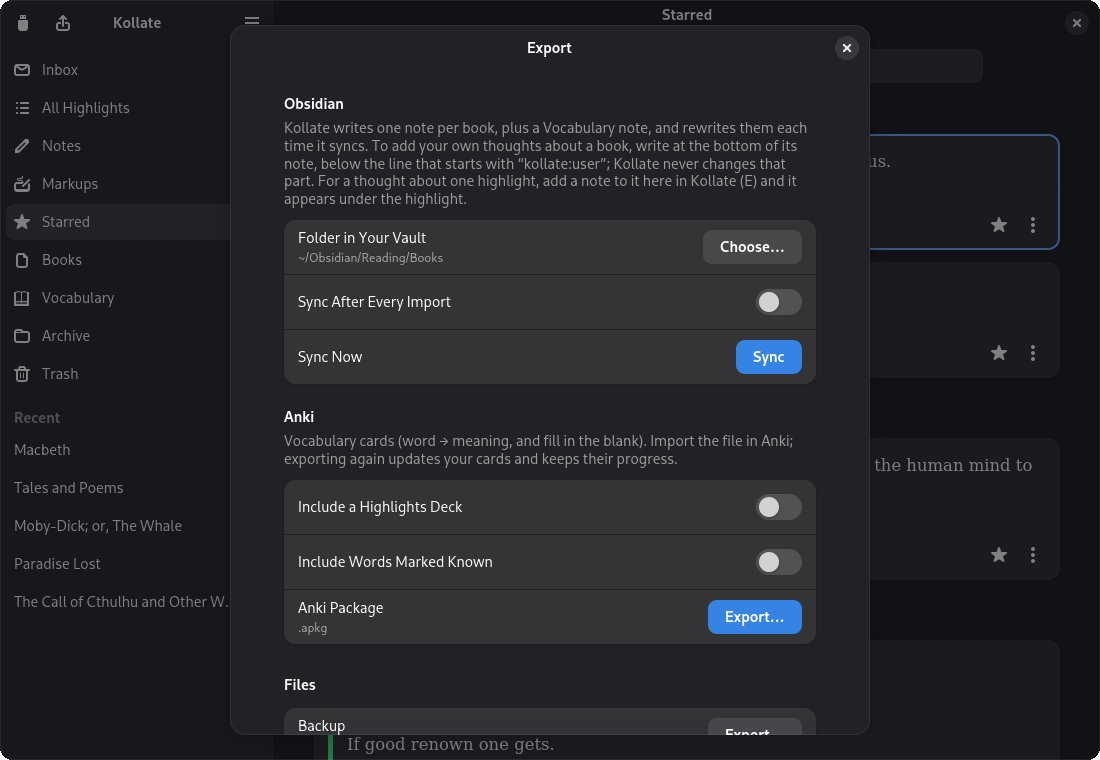
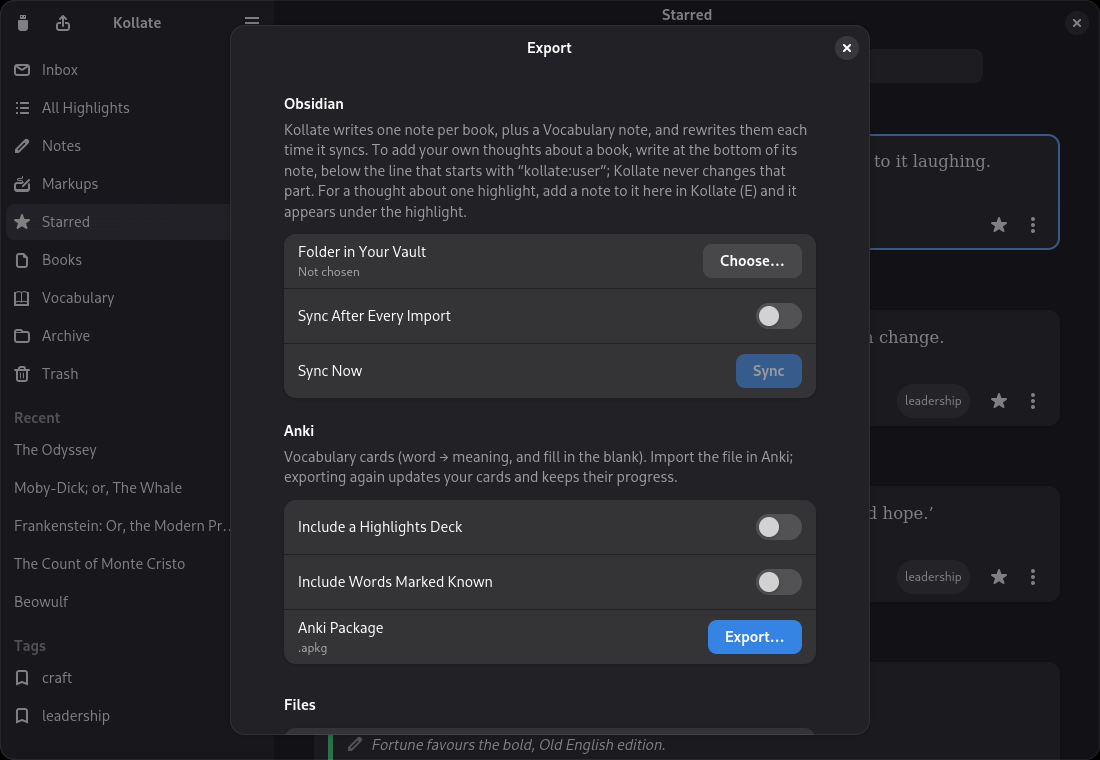
Redo all screenshots with Standard Ebooks books
Every screenshot, the hero, the social preview and the LinkedIn images
now show only Standard Ebooks editions (public domain), imported from a
demo Kobo by the real importer; only the highlights, notes and ink are
staged. The handwriting readings are the 2B model's real output. Credit
Standard Ebooks in the README and the post.

diff --git a/README.md b/README.md
@@ -45,7 +45,7 @@ And export:
 </p>
 <p align="center">
   <b>Your handwriting, as text:</b> the ink as you wrote it, the exact words you underlined, and your note as Kollate read it.<br>
-  <sub>The handwriting here is staged (a handwriting font on a public-domain page); the text below it is Kollate's real reading.</sub>
+  <sub>The handwriting here is staged (a handwriting font on a page of the book); the text below it is Kollate's real reading.</sub>
 </p>
 
 | | |
@@ -60,6 +60,8 @@ And export:
 <p align="center">
   <img src="docs/screenshots/export.png" width="70%" alt="Export dialog with Obsidian, Anki and file options">
 </p>
+
+<p align="center"><sub>Every book, cover and quote in these screenshots comes from <a href="https://standardebooks.org">Standard Ebooks</a>, whose carefully produced editions are free and in the public domain.</sub></p>
 
 ## Your Kobo stays untouched, and nothing goes online
 
@@ -176,5 +178,7 @@ cargo clippy --all-targets
 Kollate is free software under the **GNU General Public License v3.0 or later**; see [LICENSE](LICENSE).
 
 Definitions come from **[Wiktionary](https://www.wiktionary.org/)** © Wiktionary contributors, compiled by [reader.dict](https://www.reader-dict.com/), under [CC BY-SA 4.0](https://creativecommons.org/licenses/by-sa/4.0/). The bundled dictionary is distributed under the same licence; see [THIRD-PARTY.md](crates/kollate/data/THIRD-PARTY.md). Kollate isn't affiliated with reader.dict or the Wikimedia Foundation.
+
+The books in the screenshots are **[Standard Ebooks](https://standardebooks.org)** editions, dedicated to the public domain ([CC0](https://creativecommons.org/publicdomain/zero/1.0/)). Thanks to its volunteers for their work.
 
 Kollate isn't affiliated with or endorsed by Rakuten Kobo. "Kobo" is a trademark of Rakuten Kobo Inc.

diff --git a/docs/guide.md b/docs/guide.md
@@ -46,7 +46,7 @@ This also installs `kollate-cli`, the [command-line tool](#11-the-command-line).
 
 Start Kollate and connect your Kobo with its USB cable. When the Kobo asks, choose **Connect**. Kollate notices it and a banner appears:
 
-![Kollate with a banner saying "Your Kobo Libra Colour is connected" and an Eject button](guide/connected.png)
+![Kollate with a banner saying "Your Kobo Libra Colour is connected" and, with Ask first chosen, an Import button](guide/connected.png)
 
 By default Kollate imports straight away. You can change this under **Preferences → When a Kobo Is Connected**:
 
@@ -135,7 +135,7 @@ The **Books** page shows every book with highlights or looked-up words, sorted b
 
 The search field at the top of every page (**Ctrl+F**) filters what's shown as you type. In highlight views it searches the text, notes (including handwriting Kollate has read), chapters, book titles, authors and tags; on the Books page, titles and authors; in Vocabulary, words, definitions and sentences. **Escape** clears it.
 
-![Searching All Highlights for "cave" finds a markup whose handwritten note was read as text](guide/search.png)
+![Searching All Highlights for "fate" finds a markup whose handwritten note was read as text](guide/search.png)
 
 ### Copying
 
@@ -210,7 +210,7 @@ Mark each word **New**, **Learning**, **Known** or **Ignored**. Open a word to p
 
 ![The word dialog for choosing the context sentence and editing the definition](screenshots/word.png)
 
-Words that share a dictionary form ("theophanies", "theophany") are merged into one.
+Words that share a dictionary form ("leviathans", "leviathan") are merged into one.
 
 ### Other languages
 

diff --git a/docs/linkedin-post.md b/docs/linkedin-post.md
@@ -16,7 +16,7 @@ I built it with Claude Code, alongside the rest of the app: it imports everythin
 
 🧪 **Verify, don't trust.** Testing on my real device caught bugs no test data would have, like a page that slid out from under its ink. Releases come from a CI/CD pipeline in GitHub Actions with signed build provenance, so nobody has to take my word for what's in them.
 
-⚖ **Respecting boundaries.** Kobo's dictionaries are encrypted, so Kollate ships the openly licensed English Wiktionary instead, properly credited, down to the arcane words of Platonic philosophy like *hierophant* and *daimon*.
+⚖ **Respecting boundaries.** Kobo's dictionaries are encrypted, so Kollate ships the openly licensed English Wiktionary instead, properly credited, down to the arcane words of Platonic philosophy like *hierophant* and *daimon*. And every book in the screenshots is a free, public-domain edition from Standard Ebooks, a volunteer project well worth supporting.
 
 🗂 **Data hygiene.** Before open-sourcing, I scrubbed my personal reading data from the tests and the project history.
 
@@ -35,3 +35,5 @@ github.com/andrew-lawlor/kollate
 3. `3-vocabulary.png`: Every word, in the sentence you met it (Wiktionary definitions)
 4. `4-inbox.png`: Triage new highlights in seconds
 5. `5-books.png`: Your library, by cover
+
+All books, covers and quotes in the images are Standard Ebooks editions (standardebooks.org), in the public domain.
